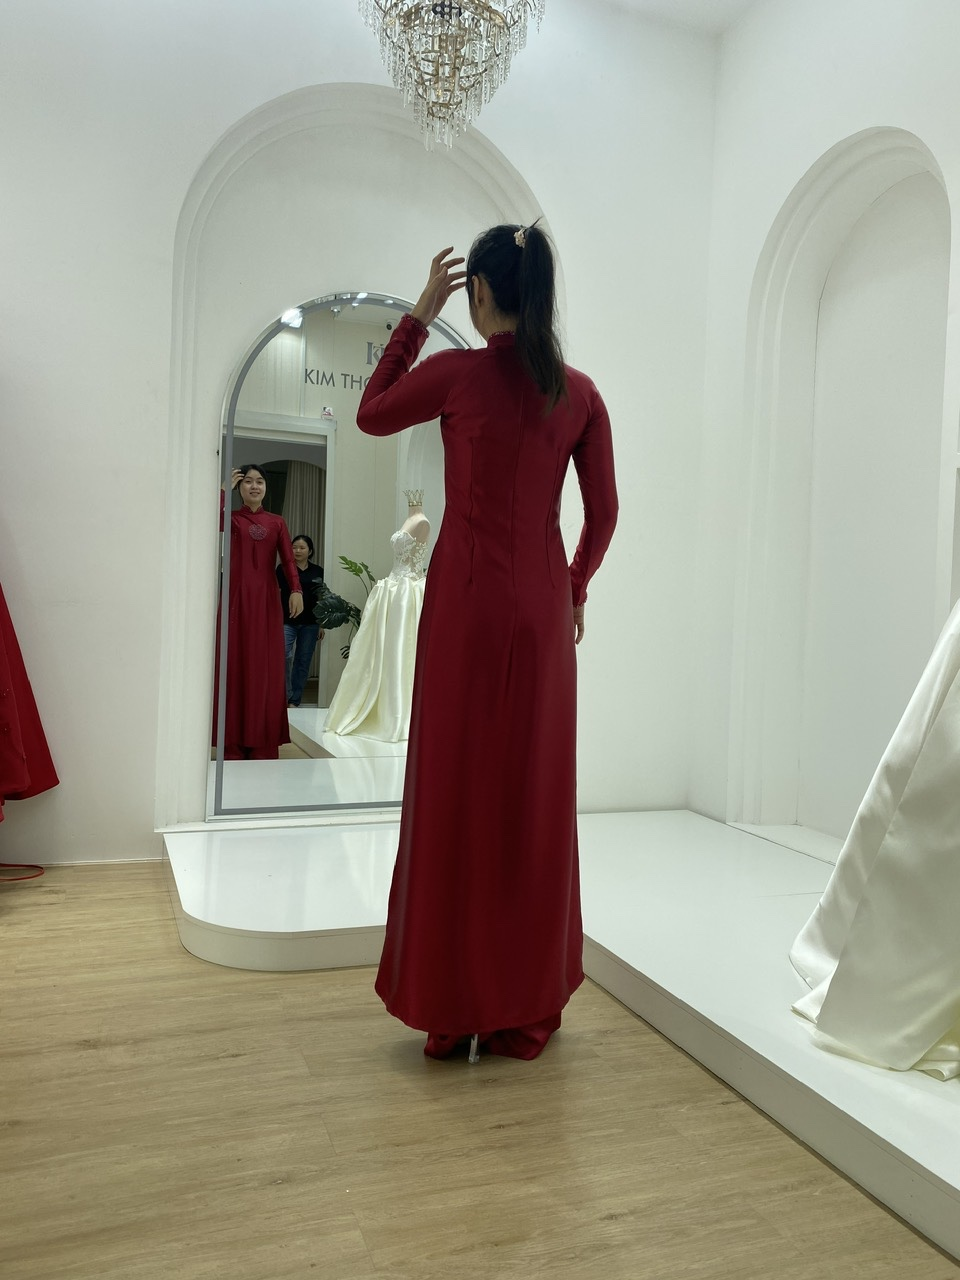
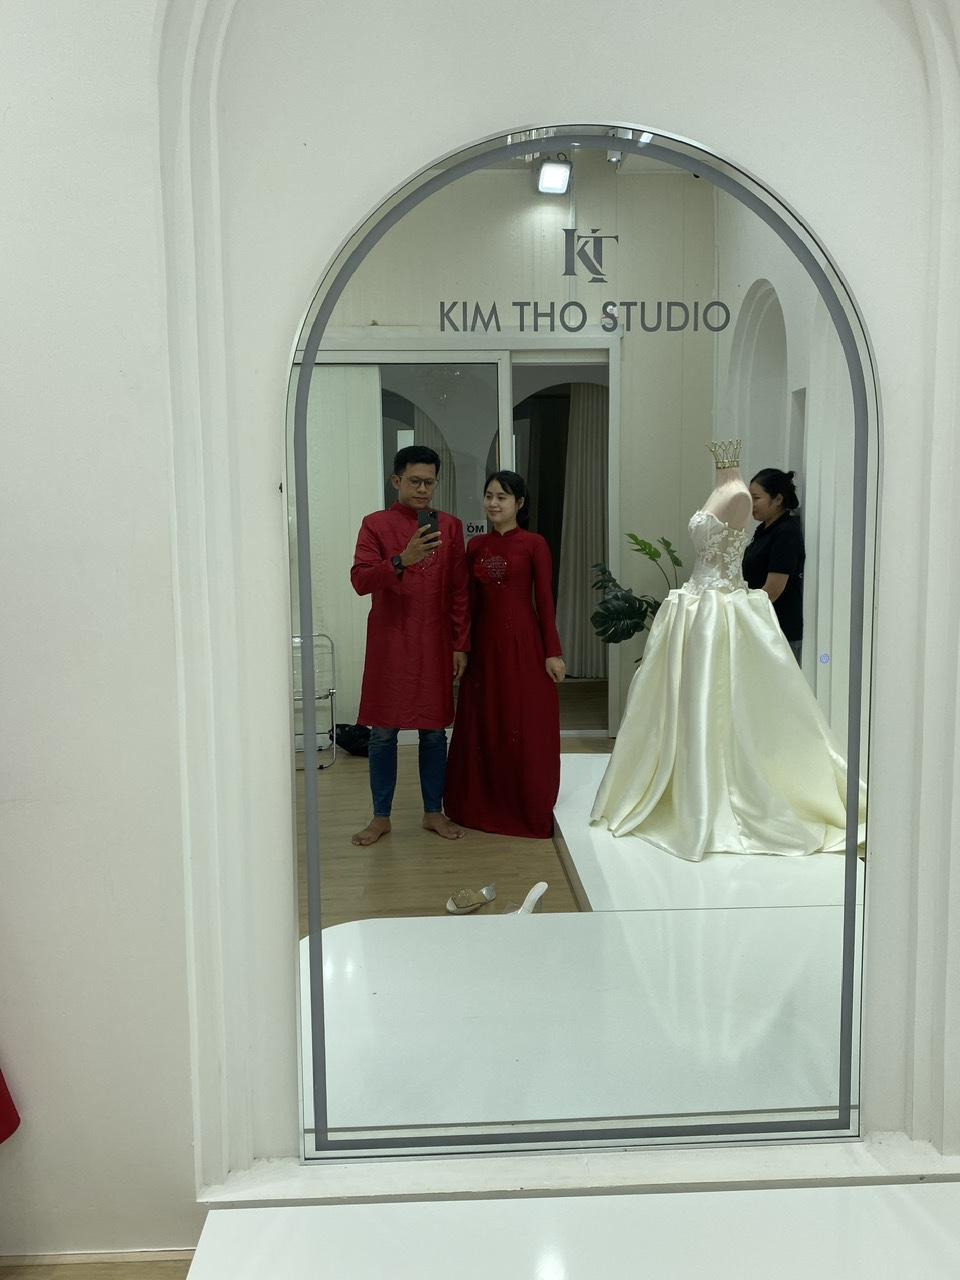
up

diff --git a/index.html b/index.html
@@ -130,7 +130,7 @@
       <img src="img/6.jpg" class="gallery-img" alt="Wedding Photo 6">
       <img src="img/7.jpg" class="gallery-img" alt="Wedding Photo 7">
       <img src="img/8.jpg" class="gallery-img" alt="Wedding Photo 8">
-      <img src="img/9.jpg" class="gallery-img" alt="Wedding Photo 9">
+      <img src="img/4.jpg" class="gallery-img" alt="Wedding Photo 9">
       <img src="img/10.jpg" class="gallery-img" alt="Wedding Photo 10">
     </div>
   </section>
